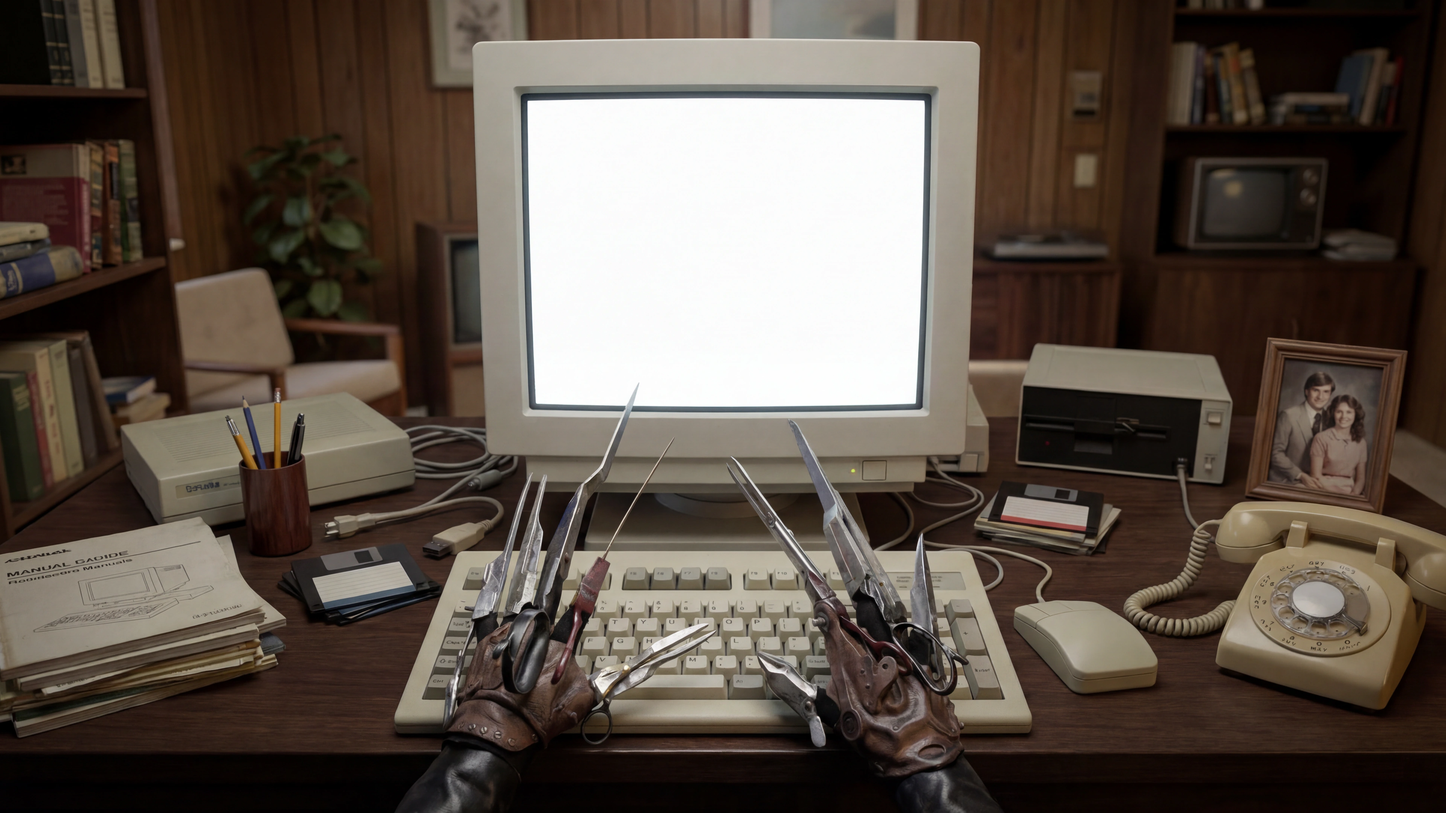
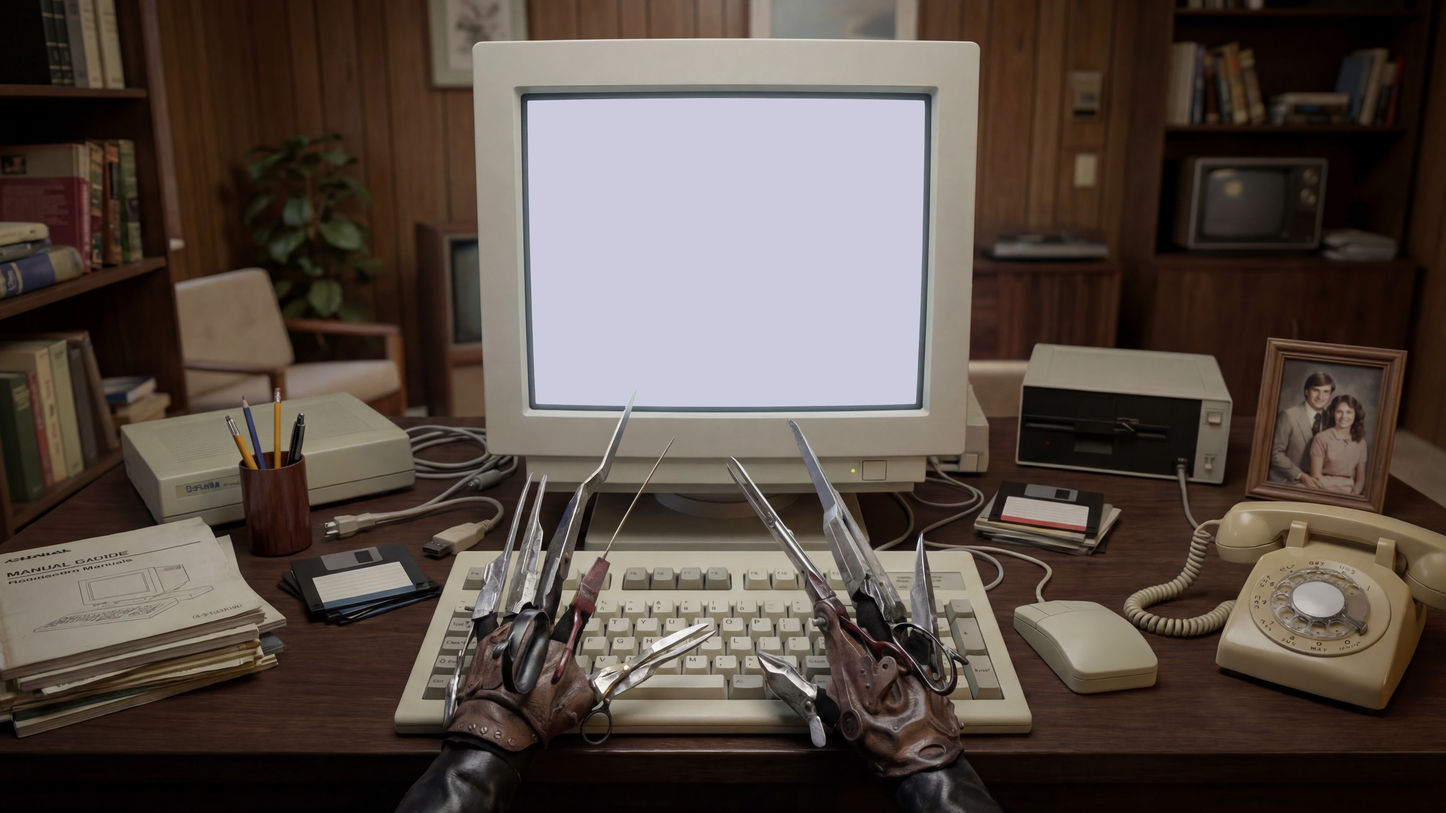
Optimize scissorhands theme

Changed region(s): [[0.3438, 0.1241, 0.6562, 0.5273]]

diff --git a/newtab.html b/newtab.html
@@ -112,6 +112,21 @@
         filter: none !important;
         transform: translateY(-1vh) !important;
       }
+      body.topiaryshadow::before,
+      body.topiaryshadow.motion-enabled::before {
+        animation: none !important;
+        clip-path: none !important;
+        filter: none !important;
+      }
+      body.topiaryshadow::after {
+        animation: none !important;
+        opacity: 0 !important;
+      }
+      body.topiaryshadow .content {
+        animation: none !important;
+        opacity: 1 !important;
+        filter: none !important;
+      }
     }
 
     /* ─── THEME: TWILIGHT CODED ─────────────────────────────────────── */
@@ -1332,35 +1347,235 @@
         0 0 24px rgba(0, 0, 0, 0.55);
     }
 
-    /* ─── TOPIARY SHADOW (gothic suburb / dark fairytale) ─────────── */
-    body.topiaryshadow { background:#c8c4d2; font-family:'DM Serif Display', serif; }
+    /* ─── TOPIARY SHADOW (gothic suburb — late-90s Google on CRT) ─── */
+    body.topiaryshadow {
+      background:#c8c4d2;
+      font-family: 'Times New Roman', Times, Georgia, serif;
+    }
     body.topiaryshadow::before {
       content: '';
       position: fixed;
       inset: 0;
       pointer-events: none;
       z-index: 0;
-      background-image:
-        linear-gradient(180deg, rgba(20, 18, 28, 0.55) 0%, rgba(40, 36, 48, 0.25) 45%, rgba(12, 10, 18, 0.72) 100%),
-        radial-gradient(ellipse 90% 55% at 50% 20%, rgba(0, 0, 0, 0.35) 0%, transparent 52%),
-        url('assets/topiaryshadow/bg.webp');
-      background-size: cover, cover, cover;
+      background-image: url('assets/topiaryshadow/bg.webp');
+      background-size: cover;
       background-position: center;
       background-repeat: no-repeat;
       background-attachment: fixed;
+      animation: topiaryshadowCrtBootBg 1.38s cubic-bezier(0.22, 1, 0.32, 1) forwards;
+      will-change: clip-path, filter;
     }
+    /* Beat global gradient drift; keep one-shot CRT power-on only. */
     body.topiaryshadow.motion-enabled::before {
-      animation: none !important;
-      will-change: auto;
+      animation: topiaryshadowCrtBootBg 1.38s cubic-bezier(0.22, 1, 0.32, 1) forwards !important;
+      will-change: clip-path, filter;
       transform: none;
-      filter: none;
     }
-    body.topiaryshadow .stars { display:none; } body.topiaryshadow .content { position:relative; z-index:2; }
-    body.topiaryshadow .clock { color:#f4f2ff; text-shadow:0 1px 3px rgba(0,0,0,0.85), 0 2px 14px rgba(0,0,0,0.4); }
-    body.topiaryshadow .greeting { color:#e0dcf0; font-style:italic; text-shadow:0 1px 2px rgba(0,0,0,0.82); } body.topiaryshadow .date-line { color:#c8c4d8; text-shadow:0 1px 2px rgba(0,0,0,0.78); }
-    body.topiaryshadow .search-bar { background:rgba(18,16,28,0.78); border:1px solid rgba(200,195,220,0.35); color:#f2f0fa; }
-    body.topiaryshadow .search-bar::placeholder { color:#a8a0b8; } body.topiaryshadow .search-bar:focus { box-shadow:0 4px 22px rgba(0,0,0,0.35); }
-    body.topiaryshadow .quote { color:#ece8f8; font-style:italic; font-size:clamp(1.1rem,2vw,1.35rem)!important; text-shadow:0 1px 3px rgba(0,0,0,0.88); } body.topiaryshadow .quote-author { color:#d0c8e8; text-shadow:0 1px 2px rgba(0,0,0,0.82); }
+    /* Single raster-style sweep (retrace) across the tube. */
+    body.topiaryshadow::after {
+      content: '';
+      position: fixed;
+      left: 0;
+      right: 0;
+      top: -15vh;
+      height: 22vh;
+      pointer-events: none;
+      z-index: 1;
+      background: linear-gradient(
+        180deg,
+        transparent 0%,
+        rgba(255, 255, 255, 0.07) 45%,
+        rgba(200, 230, 255, 0.09) 50%,
+        rgba(255, 255, 255, 0.06) 55%,
+        transparent 100%
+      );
+      opacity: 0;
+      animation: topiaryshadowCrtSweep 0.95s cubic-bezier(0.25, 0.9, 0.35, 1) 0.22s forwards;
+    }
+    @keyframes topiaryshadowCrtBootBg {
+      0% {
+        clip-path: inset(49.4% 0 49.4% 0);
+        filter: brightness(0) contrast(1.25);
+      }
+      10% {
+        clip-path: inset(38% 0 38% 0);
+        filter: brightness(2.1) contrast(1.2);
+      }
+      26% {
+        clip-path: inset(0 0 0 0);
+        filter: brightness(1.18) contrast(1.06);
+      }
+      42% {
+        filter: brightness(0.78) contrast(1);
+      }
+      58% {
+        filter: brightness(1.08) contrast(1);
+      }
+      74% {
+        filter: brightness(0.96) contrast(1);
+      }
+      100% {
+        clip-path: inset(0 0 0 0);
+        filter: brightness(1) contrast(1);
+      }
+    }
+    @keyframes topiaryshadowCrtSweep {
+      0% {
+        transform: translateY(0);
+        opacity: 0.85;
+      }
+      100% {
+        transform: translateY(130vh);
+        opacity: 0;
+      }
+    }
+    @keyframes topiaryshadowCrtBootUi {
+      0% {
+        opacity: 0;
+        filter: blur(5px);
+      }
+      32% {
+        opacity: 0;
+        filter: blur(4px);
+      }
+      58% {
+        opacity: 1;
+        filter: blur(0);
+      }
+      100% {
+        opacity: 1;
+        filter: none;
+      }
+    }
+    body.topiaryshadow .stars { display:none; }
+    body.topiaryshadow .page-wrapper {
+      position:relative;
+      z-index:2;
+    }
+    /* CRT bezel: ~clock digit span wide; phosphor area ends ~at search top — compact stack + lift. */
+    body.topiaryshadow .content {
+      position:relative;
+      z-index:2;
+      max-width:min(34vw, 318px);
+      width:100%;
+      margin-inline:auto;
+      transform:translateY(calc(-21vh + 122px)) scale(0.704);
+      transform-origin:50% 0;
+      animation:topiaryshadowCrtBootUi 1.32s cubic-bezier(0.33, 1, 0.68, 1) 0.2s both;
+    }
+    body.topiaryshadow .content::after {
+      content:'';
+      position:absolute;
+      inset:-6px -10px -4px;
+      pointer-events:none;
+      z-index:-1;
+      border-radius:2px;
+      opacity:0.12;
+      background:repeating-linear-gradient(180deg, transparent, transparent 2px, rgba(0, 0, 0, 0.04) 2px, rgba(0, 0, 0, 0.04) 3px);
+    }
+    body.topiaryshadow .clock {
+      font-family:inherit;
+      color:#1a1a1a;
+      letter-spacing:0.02em;
+      text-shadow:0 1px 0 rgba(255, 255, 255, 0.35);
+      transform:translateY(calc(var(--vs-clock-lift) * 0.55));
+    }
+    body.topiaryshadow .greeting {
+      color:#202020;
+      font-style:normal;
+      font-size:clamp(0.82rem, 1.55vw, 1.05rem) !important;
+      letter-spacing:0.05em !important;
+      margin-top:0.35rem !important;
+      text-shadow:none;
+    }
+    body.topiaryshadow .date-line {
+      color:#333;
+      letter-spacing:0.1em !important;
+      font-size:0.88rem !important;
+      margin-top:0.45rem !important;
+      line-height:1.25 !important;
+      text-shadow:none;
+    }
+    body.topiaryshadow .search-wrapper {
+      width:100%;
+      max-width:100%;
+      margin-top:0.55rem;
+    }
+    body.topiaryshadow .search-row {
+      gap:14px;
+    }
+    body.topiaryshadow .search-bar {
+      font-family:inherit;
+      font-size:0.92rem !important;
+      padding:0.52rem 0.75rem !important;
+      padding-right:2.5rem !important;
+      border-radius:2px;
+      background:#fff;
+      border:2px solid #959595;
+      color:#000;
+      box-shadow:inset 0 1px 2px rgba(0, 0, 0, 0.06);
+    }
+    body.topiaryshadow .search-bar::placeholder { color:#616161; }
+    body.topiaryshadow .search-bar:focus {
+      border-color:#4d90fe;
+      box-shadow:inset 0 1px 2px rgba(0, 0, 0, 0.06), 0 0 0 1px rgba(77, 144, 254, 0.45);
+    }
+    body.topiaryshadow .search-mag {
+      color:#1a0dab;
+    }
+    body.topiaryshadow .search-mag:hover {
+      color:#0000cc;
+      background:rgba(26, 13, 171, 0.06);
+    }
+    body.topiaryshadow .search-actions {
+      gap:0.5rem;
+    }
+    body.topiaryshadow .search-btn {
+      font-family:inherit;
+      letter-spacing:0.02em;
+      text-transform:none;
+      font-size:0.78rem !important;
+      font-weight:400;
+      min-width:6.5rem;
+      height:30px;
+      border:1px solid #666;
+      border-radius:2px;
+      color:#222;
+      background:linear-gradient(180deg, #f5f5f5 0%, #e4e4e4 55%, #dcdcdc 100%);
+      box-shadow:
+        inset 0 1px 0 #fff,
+        0 1px 1px rgba(0, 0, 0, 0.08);
+    }
+    body.topiaryshadow .search-btn:focus-visible {
+      box-shadow:0 0 0 2px #4d90fe, 0 0 0 4px rgba(255, 255, 255, 0.9);
+    }
+    body.topiaryshadow .quote {
+      color:#2a2a2a;
+      font-style:normal;
+      font-size:clamp(0.78rem, 1.35vw, 0.95rem) !important;
+      letter-spacing:0.02em;
+      line-height:1.4 !important;
+      text-shadow:none;
+    }
+    body.topiaryshadow .quote-author {
+      color:#1a0dab;
+      font-family:inherit;
+      font-size:clamp(0.72rem, 1.2vw, 0.88rem) !important;
+      text-decoration:underline;
+      text-underline-offset:2px;
+      text-shadow:none;
+    }
+    body.topiaryshadow .quote-block {
+      margin-top:1.1rem;
+      max-width:100%;
+    }
+    @media (max-width:700px) {
+      body.topiaryshadow .content {
+        transform:translateY(calc(-16vh + 60px)) scale(0.792);
+        max-width:min(78vw, 300px);
+      }
+    }
 
     /* ─── INKVERSE POP (Into the Spider-Verse — still + comic chrome) ─ */
     /* Load: camera swings forward — UI rushes from deep / tipped back to rest. */
@@ -2561,7 +2776,7 @@
     body.matrixfall { --vs-clock-scale: 0.88; }
     body.rivendelleve { --vs-clock-scale: 0.95; }
     body.mendlpastel { --vs-clock-scale: 0.96; }
-    body.topiaryshadow { --vs-clock-scale: 0.95; }
+    body.topiaryshadow { --vs-clock-scale: 0.82; }
     body.inkversepop { --vs-clock-scale: 0.72; }
     body.bridesvengeance { --vs-clock-scale: 0.74; }
     body.rabbitholedream { --vs-clock-scale: 0.96; }
@@ -2618,6 +2833,9 @@
     /* Follow global pill rule — transparent field on bitmap scroll */
     body.commonroom .search-shell .search-bar {
       border-radius: 0 !important;
+    }
+    body.topiaryshadow .search-shell .search-bar {
+      border-radius: 2px !important;
     }
     .search-mag {
       position: absolute;
@@ -3169,10 +3387,12 @@
         inset 0 2px 0 rgba(255, 255, 255, 0.65);
     }
     body.topiaryshadow .search-btn:hover {
-      border-color: rgba(58, 53, 72, 0.16);
-      background: rgba(255, 255, 255, 0.94);
-      color: #2a2538;
-      box-shadow: 0 8px 26px rgba(58, 53, 72, 0.08), inset 0 1px 0 rgba(255, 255, 255, 0.85);
+      border-color: #555;
+      background: linear-gradient(180deg, #ebebeb 0%, #d8d8d8 55%, #cfcfcf 100%);
+      color: #111;
+      box-shadow:
+        inset 0 1px 0 #f8f8f8,
+        0 1px 2px rgba(0, 0, 0, 0.1);
     }
 
 
